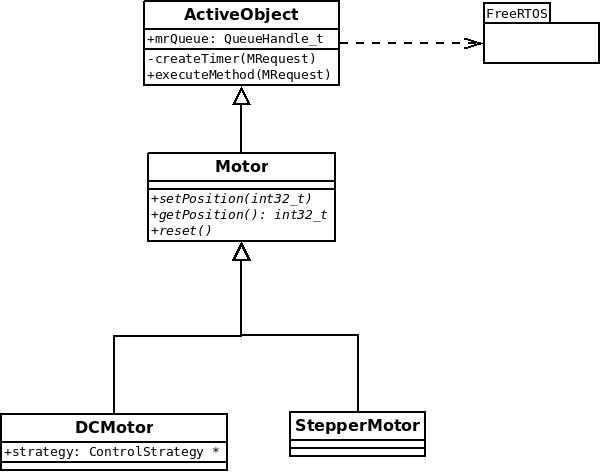
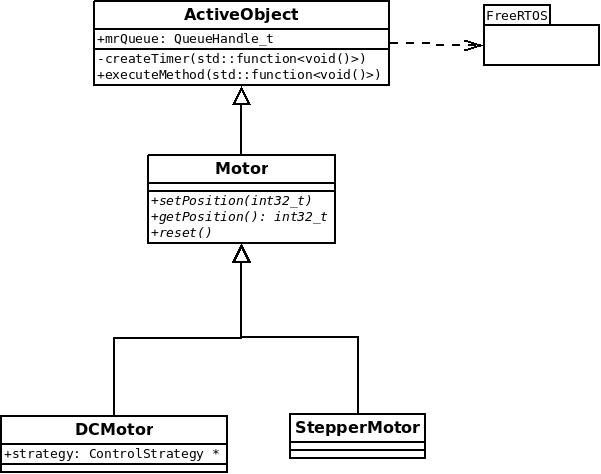
Finished robobo design post.

diff --git a/src/robobo/ActiveObject.h b/src/robobo/ActiveObject.h
@@ -4,6 +4,7 @@
 #include <FreeRTOS.h>
 #include "timers.h"
 #include "queue.h"
+#include <functional>
 
 class MethodRequestBase;
 class MRequest;
@@ -15,18 +16,23 @@ class ActiveObject
 
         ActiveObject();
 
-        TimerHandle_t createTimer (
-                MRequest *mr, 
-                const TickType_t xTimerPeriod, 
-                const UBaseType_t uxAutoReload );
+        TimerHandle_t createTimer (  
+                const std::function<void()> &f, 
+                const TickType_t period, 
+                const UBaseType_t reload );
 
-        uint8_t executeMethod(MRequest *mr);
+        uint8_t executeMethod(const std::function<void()> &);
 
         QueueHandle_t getQueue()
         {
             return mrQueue; 
         }
 
+    private:
+        uint8_t executeMethod(MRequest *mr);
+
+    friend void ActiveObjectTimerCallback( TimerHandle_t xTimer );
+    friend void ActiveObjectTaskFunction( void * );
 
 };
 

diff --git a/src/robobo/DCMotor.cpp b/src/robobo/DCMotor.cpp
@@ -25,16 +25,20 @@ DCMotor::DCMotor(   uint8_t encoderAPinV,
     reset();
 
 
-    MRequest *mr = new MRequest(this,bind(&DCMotor::updateControl, this ));
-    triggerTimer = createTimer(mr,1,1);
+    triggerTimer = createTimer(
+            std::function<void()>(bind(&DCMotor::updateControl, this)),
+            1,
+            1);
     xTimerStart(triggerTimer,0);
 
 }
 
 void DCMotor::enableReports(TickType_t period)
 {
-    MRequest *mr = new MRequest(this,bind(&DCMotor::reportMethod, this ));
-    reportTimer = createTimer(mr,period,1);
+    reportTimer = createTimer( 
+        std::function<void()>(bind(&DCMotor::reportMethod,this)),
+        period,
+        true);
     xTimerStart(reportTimer,0);
 }
 

diff --git a/src/robobo/ActiveObject.cpp b/src/robobo/ActiveObject.cpp
@@ -12,10 +12,13 @@ ActiveObject::ActiveObject()
 
 
 TimerHandle_t ActiveObject::createTimer
-     (   MRequest *mr, 
+     (   const std::function<void()> &f, 
          const TickType_t period, 
          const UBaseType_t reload )
 {
+
+    auto mr = new MRequest( this, f);
+
     if (reload == 1 )
     {
         mr->setPersistent(true);
@@ -31,6 +34,12 @@ TimerHandle_t ActiveObject::createTimer
 
 uint8_t ActiveObject::executeMethod(MRequest *mr)
 {
+    return xQueueSend(mrQueue, &mr, 0);
+}
+
+uint8_t ActiveObject::executeMethod(const std::function<void()> &f )
+{
+    auto mr = new MRequest(this, f);
     return xQueueSend(mrQueue, &mr, 0);
 }
 

diff --git a/docs/_posts/2018-03-09-robobo-design.md b/docs/_posts/2018-03-09-robobo-design.md
@@ -66,7 +66,8 @@ then execution order is determined by priority you selected for tasks.
 Active object is like any other object. You treat it as normal object but
 since active objects are assigned to particular task they are dynamic from user
 perspective. Once method call is invoked then its execution can happen using
-concurrency mechanisms provided by OS layer;
+concurrency mechanisms provided by OS layer. In such light active object
+concept is concept of requesting others to execute something. 
 
 In order to highlight importance of active object design please consider our
 Robobo case. Each `DCMotor` executes PID algorithm. PID algorithm is actual
@@ -95,11 +96,10 @@ OS. Lets summarize:
 ```
 
 - In order to abstract inter process communication each active object will
-  contain its own FreeRTOS queue:
+  contain its own FreeRTOS queue which is created in costructor:
 ```
     mrQueue = xQueueCreate(...);
 ```
-  Queue creation is done as part of `ActiveObject` constructor. 
 
 - When `ActiveObject` client wishes to execute method in context of
   `ActiveObject` task it calls `executeMethod(...)`. Then call is translated to 
@@ -121,16 +121,83 @@ translates it to FreeRTOS `xTimerCreate` function:
           ActiveObjectTimerCallback );
 ```
 
-# DCMotor class
-As highlighted in UML diagram additional `Motor` interface class is
-provided.Motor interface is provided to abstract executive elements to main
-Robobo controller. Its implementation example is made by `DCMotor` class. This
-abstraction fulfils design assumption of having ability of adding new executive
-elements by code addition. In order to add a stepper motor to robobo we will
-have to provide implementation of methods `setPosition`, `getPosition`, `reset`
-and others which are motor type specific.
+# Method Request
 
-One more aspect to highlight in `DCMotor` is `control` member. 
+As I described above in order to facilitate interprocess communication we are
+using FreeRTOS queues. Whenever there is a need for calling an active object
+method caller in fact will create a message and it will put it on Active Object
+`mrQueue` in his own execution context. This happens under the hood of
+`executeMethod()` call. 
 
-*Details to be provided soon*
+```C
+uint8_t ActiveObject::executeMethod(const std::function<void()> &f )
+{
+    auto mr = new MRequest(this, f);
+    return xQueueSend(mrQueue, &mr, 0);
+}
+```
+
+Special `MRequest` structure was created in order to pass all necessary information to
+active object context to make it able to execute. Please note that
+`executeMethod` doesn't block. We can call it asynchronous as we are requesting
+`f` to be executed and we are not waiting for completion anyhow. That is
+current assumption for Robobo design and might change in future if needed.
+`MRequest` or method request is defined as follow:
+
+```C
+class MRequest
+{
+        ...
+        ActiveObject *ao;
+        std::function<void()> *func;
+        bool persistent;
+        ...
+};
+```
+
+Each MRequest includes pointer reference to `ActiveObject`, a function call and
+persistence flag. Persistence flag is detail important from heap management
+perspective. I will skip explanation of this flag for now. `ActiveObject` pointer
+holds pointer to object in which context execution should happen. In reality
+this reference is in place in order to satisfy FreeRTOS software timer design.
+Once again I will skip explanation for now.  From understanding
+perspective key is `function<void()> *func`. This C++11 standard class is used to 
+encapsulate function calls in objects. Reference can be found
+[here](http://en.cppreference.com/w/cpp/utility/functional/function).
+
+When client creates `MRequest` and put in on `ActiveObject` `mrQueue` then as
+part of  receiver context following will happen:
+
+```C
+    for (;;) 
+    {
+        xQueueReceive( queue, &mr, portMAX_DELAY );
+        (*(mr->func))();
+        ...
+    }
+```
+
+# Client interface
+
+In order to dispatch method request following call must be executed:
+
+```C
+executeMethod(std::function<void()>(bind(&DCMotor::reportMethod,this)),
+```
+here we take advantage of c++11 `bind`.
+[Bind](http://en.cppreference.com/w/cpp/utility/functional/bind) allows us to
+create `function<void()>` objects even from methods that actually takes
+parameters.  This is flexible mechanism that allows us to call literally every
+method even if they require to provide parameter set. 
+
+# Summary 
+
+In this article I started with Robobo design considerations. Then I introduced
+you active object concept. I showed you how active object allows us to isolate OS
+specific function calls to make our code portable. At the end I showed you
+essentials of active object mechanics realized in FreeRTOS. I hope this gives
+you entry level knowledge that allows you to read code further in order to
+understand remaining active objects implementation. 
+
+
 
